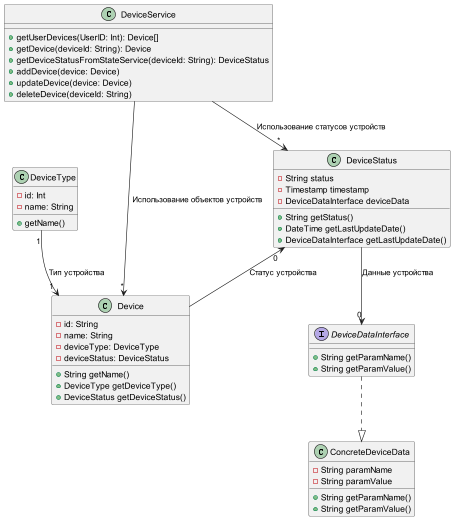
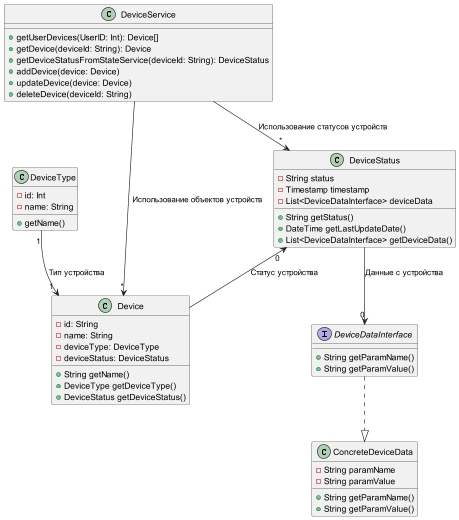
sprint 3

diff --git a/Project_template.md b/Project_template.md
@@ -59,33 +59,33 @@
 
 
 **Диаграмма контекста для to-be решения (context) **
-![warmhouse-tobe-result.png](docs%2Fto-be%2Fcontext%2Fwarmhouse-tobe-result.png)
+[warmhouse-tobe-result.png](docs%2Fto-be%2Fcontext%2Fwarmhouse-tobe-result.png)
 
 **Диаграмма контейнеров (Containers)**
 
-![container-result.png](docs%2Fto-be%2Fcontainer%2Fcontainer-result.png)
+[container-result.png](docs%2Fto-be%2Fcontainer%2Fcontainer-result.png)
 
 **Диаграмма компонентов (Components)**
 
-![component-user-service-res.png](docs%2Fto-be%2Fcomponent%2Fcomponent-user-service-res.png)
+[component-user-service-res.png](docs%2Fto-be%2Fcomponent%2Fcomponent-user-service-res.png)
 
-![component-device-service-res.png](docs%2Fto-be%2Fcomponent%2Fcomponent-device-service-res.png)
+[component-device-service-res.png](docs%2Fto-be%2Fcomponent%2Fcomponent-device-service-res.png)
 
 *Сервисы взаимодействия с устройствами являются уникальными для каждого вида устройств, которые могут быть интегрированы в систему. В данном случае приводится пример одного из сервисов*
 
-![component-heating-service-res.png](docs%2Fto-be%2Fcomponent%2Fcomponent-heating-service-res.png)
+[component-heating-service-res.png](docs%2Fto-be%2Fcomponent%2Fcomponent-heating-service-res.png)
 
-![component-state-service-res.png](docs%2Fto-be%2Fcomponent%2Fcomponent-state-service-res.png)
+[component-state-service-res.png](docs%2Fto-be%2Fcomponent%2Fcomponent-state-service-res.png)
 
-![component-task-service-res.png](docs%2Fto-be%2Fcomponent%2Fcomponent-task-service-res.png)
+[component-task-service-res.png](docs%2Fto-be%2Fcomponent%2Fcomponent-task-service-res.png)
 
 **Диаграмма кода (Code)**
 
-![code.png](docs%2Fto-be%2Fcode%2Fcode.png)
+[code.png](docs%2Fto-be%2Fcode%2Fcode.png)
 
 # Задание 3. Разработка ER-диаграммы
 
-![erd-res.png](docs%2Fto-be%2Ferd%2Ferd-res.png)
+[erd-res.png](docs%2Fto-be%2Ferd%2Ferd-res.png)
 
 # ❌ Задание 4. Создание и документирование API
 